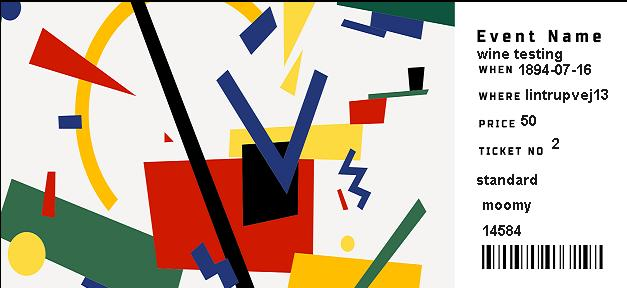
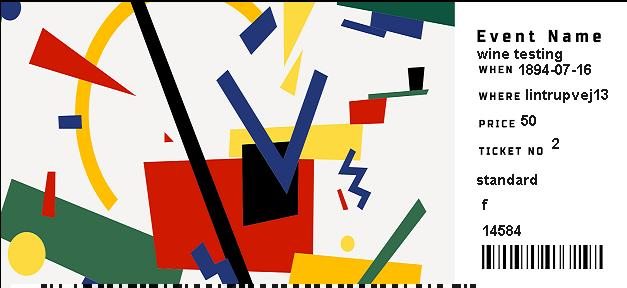
adding realstic barcode

Changed region(s): [[0.0606, 0.9688, 0.7576, 1.0], [0.7576, 0.6875, 0.8485, 0.75]]

diff --git a/src/easv/GUI/View/CSS/Styles.css b/src/easv/GUI/View/CSS/Styles.css
@@ -1,4 +1,4 @@
-
+@import url('https://fonts.googleapis.com/css2?family=League+Gothic&display=swap');
 
 .blue{
     -fx-background-color: #ff5252;
@@ -26,4 +26,10 @@
 }
 .changedBackgroundColor{
     -fx-background-color: #D3DEDC;
+}
+
+.eventnamefont{
+    -fx-font-family: 'League Gothic', sans-serif ;
+    -fx-font-size: 24;
+
 }

diff --git a/src/easv/GUI/Controller/EventInfoController.java b/src/easv/GUI/Controller/EventInfoController.java
@@ -1,5 +1,7 @@
 package easv.GUI.Controller;
 
+
+import com.barcodelib.barcode.Linear;
 import com.jfoenix.controls.JFXButton;
 import easv.BE.Ticket;
 import easv.BE.User;
@@ -31,6 +33,7 @@ import javax.swing.*;
 import java.awt.*;
 import java.awt.geom.Rectangle2D;
 import java.awt.image.BufferedImage;
+import java.awt.image.BufferedImageOp;
 import java.io.File;
 import java.io.IOException;
 import java.net.URL;
@@ -72,7 +75,7 @@ public class EventInfoController implements Initializable {
        eventnameid.setText(cntrl.name);
        infoid.setText(cntrl.notes);
         String s =String.valueOf(cntrl.participants);
-       participantsid.setText(s);
+
        locationid.setText(cntrl.loc);
         locguideid.setText(cntrl.locationGuidance);
         showtickets();
@@ -81,65 +84,87 @@ public class EventInfoController implements Initializable {
     public void showtickets(){
 
         tickets = ticketModel.getticketinevent(cntrl.eventid);
-
+        Image image = new Image("/resourse/user.png");
+       // ImageView view = new ImageView();
         for(Ticket t : tickets){
             String s =String.valueOf(t.getTicketprice());
             Label price = new Label(s);
-            Label barcode = new Label(t.getBarcode());
-            Button btn = new Button();
+            Label btn = new Label();
             btn.setText(t.getType());
+           // view.setImage(image);
             vBox = new VBox();
+
             vBox.getChildren().add(price);
-            vBox.getChildren().add(barcode);
             vBox.getChildren().add(btn);
+           // vBox.getChildren().add(view);
             tilepaneid.getChildren().add(vBox);
             vBox.setOnMousePressed(event -> {
                 String name= JOptionPane.showInputDialog("Enter Name");
-              User user = userModel.adduser(name ,"1234" ,"1234" ,"Customer");
-                ticketModel.createUsTiEv(cntrl.selectedevent, t ,user );
-                try {
-                    String path = "/resourse/tickettemplate.png";
+                if(name != null ) {
+                    User user = userModel.adduser(name, "1234", "1234", "Customer");
+                    ticketModel.createUsTiEv(cntrl.selectedevent, t ,user );
+                    try {
+                        String path = "/resourse/tickettemplate.png";
 
-                    File input = new File("C:\\Users\\samkaxe\\Event_Management\\src\\resourse\\tickettemplate.png");
-                    File output = new File("C:\\Users\\samkaxe\\Event_Management\\src\\resourse\\ticket.jpg");
-                    addTixttoimage(name , cntrl.selectedevent.getName() , cntrl.selectedevent.getStartevent().toString() , cntrl.selectedevent.getLocation() , t.getBarcode(),t.getTicketprice(),t.getId(),t.getType() , "jpg" , input , output);
-                } catch (IOException e) {
-                    e.printStackTrace();
+                        File input = new File("C:\\Users\\samkaxe\\Event_Management\\src\\resourse\\tickettemplate.png");
+                        File output = new File("C:\\Users\\samkaxe\\Event_Management\\src\\resourse\\ticket.jpg");
+
+                        Linear barcodes = new Linear();
+                        barcodes.setType(Linear.CODE128B);
+                        barcodes.setData(t.getBarcode());
+                        barcodes.setI(1);
+
+
+                      BufferedImage  image2 = barcodes.renderBarcode();
+
+                        addTixttoimage(image2 ,name , cntrl.selectedevent.getName() , cntrl.selectedevent.getStartevent().toString() , cntrl.selectedevent.getLocation() , t.getBarcode(),t.getTicketprice(),t.getId(),t.getType() , "jpg" , input , output);
+                    } catch (IOException e) {
+                        e.printStackTrace();
+                    } catch (Exception e) {
+                        e.printStackTrace();
+                    }
                 }
+               else {
+                    System.out.println("nothing selected ");
+                }
+
             });
         }
     }
 
-    private static void addTixttoimage(String text, String name , String when , String where , String barcode , int price , int ticketid,String tickettype ,String type, File source, File destination) throws IOException {
+
+
+    private static void addTixttoimage(BufferedImage image2,String text, String name , String when , String where , String barcode , int price , int ticketid,String tickettype ,String type, File source, File destination) throws IOException {
+
         BufferedImage image = ImageIO.read(source);
         int imagetype = "png".equalsIgnoreCase(type) ? BufferedImage.TYPE_INT_ARGB : BufferedImage.TYPE_INT_RGB;
 
-        BufferedImage bold = new BufferedImage(image.getWidth() , image.getHeight() , imagetype);
+        BufferedImage bold = new BufferedImage(image.getWidth(), image.getHeight(), imagetype);
 
         Graphics2D w = (Graphics2D) bold.getGraphics();
 
-        w.drawImage(image , 1 , 2 ,null);
-        AlphaComposite alpha = AlphaComposite.getInstance(AlphaComposite.SRC_OVER , 0.9f );
+        w.drawImage(image, 1, 2, null);
+        AlphaComposite alpha = AlphaComposite.getInstance(AlphaComposite.SRC_OVER, 0.9f);
         w.setComposite(alpha);
         w.setColor(Color.BLACK);
-        w.setFont(new Font(Font.SANS_SERIF , Font.BOLD , 15));
+        w.setFont(new Font(Font.SANS_SERIF, Font.BOLD, 15));
 
         FontMetrics fontMetrics = w.getFontMetrics();
-        Rectangle2D rect = fontMetrics.getStringBounds(text , w );
-        int centerX = (image.getWidth() - (int) rect.getWidth())/2 ;
-        int centerY = image.getHeight()/2 ;
+        Rectangle2D rect = fontMetrics.getStringBounds(text, w);
+        int centerX = (image.getWidth() - (int) rect.getWidth()) / 2;
+        int centerY = image.getHeight() / 2;
 
 
-        w.drawString(name , 477  , 59);
-        w.drawString(where , 525  , 100);
-        w.drawString(when , 518  , 75);
-        w.drawString(String.valueOf(price), 521  , 126);
-        w.drawString(barcode , 482  , 236);
-        w.drawString(tickettype , 476  , 185);
-        w.drawString(String.valueOf(ticketid), 552  , 149);
-        w.drawString(text , 482  , 210);
-
-        ImageIO.write(bold ,type , destination);
+        w.drawString(name, 477, 59);
+        w.drawString(where, 525, 100);
+        w.drawString(when, 518, 75);
+        w.drawString(String.valueOf(price), 521, 126);
+        w.drawString(barcode, 482, 236);
+        w.drawString(tickettype, 476, 185);
+        w.drawString(String.valueOf(ticketid), 552, 149);
+        w.drawString(text, 482, 210);
+        w.drawImage(image2, null, 11, 284);
+        ImageIO.write(bold, type, destination);
         w.dispose();
     }
 

diff --git a/src/easv/testedmain.java b/src/easv/testedmain.java
@@ -1,19 +1,36 @@
 package easv;
 
 
+
+
+import com.barcodelib.barcode.Linear;
+
 import javax.imageio.ImageIO;
 import java.awt.*;
 import java.awt.geom.Rectangle2D;
 import java.awt.image.BufferedImage;
 import java.io.File;
 import java.io.IOException;
-import java.sql.Timestamp;
-import java.text.DateFormat;
-import java.text.SimpleDateFormat;
-import java.util.Calendar;
+import java.util.Random;
+
 
 public class testedmain {
     public static void main(String[] args) throws Exception {
+
+        Random random = new Random();
+        StringBuilder sb = new StringBuilder();
+
+        // first not 0 digit
+        sb.append(random.nextInt(9) + 1);
+
+        // rest of 11 digits
+        for (int i = 0; i < 11; i++) {
+            sb.append(random.nextInt(10));
+        }
+        System.out.println(sb);
+
+        String sbd = String.valueOf(sb);
+        System.out.println(sbd);
 /*
         Calendar cal = Calendar.getInstance();
         java.sql.Timestamp timestamp = new Timestamp(cal.getTimeInMillis());
@@ -32,12 +49,12 @@ public class testedmain {
 
  */
 
-        String path = "/resourse/tickettemplate.png";
+     //   String path = "/resourse/tickettemplate.png";
 
-         File input = new File("C:\\Users\\samkaxe\\Event_Management\\src\\resourse\\tickettemplate.png");
-         File output = new File("C:\\Users\\samkaxe\\Event_Management\\src\\resourse\\images3.jpg");
+      //   File input = new File("C:\\Users\\samkaxe\\Event_Management\\src\\resourse\\tickettemplate.png");
+        // File output = new File("C:\\Users\\samkaxe\\Event_Management\\src\\resourse\\images3.jpg");
 
-        addTixttoimage("" , "teaparty" , "2022-12-15" , "koldingvej13" , "156264",50,1  , "jpg" , input , output);
+    //    addTixttoimage("" , "teaparty" , "2022-12-15" , "koldingvej13" , "156264",50,1  , "jpg" , input , output);
     }
 
     private static void addTixttoimage(String text, String name , String when , String where , String barcode , int price , int ticketid , String type, File source, File destination) throws IOException {

diff --git a/src/easv/GUI/Controller/create/CreateTicketController.java b/src/easv/GUI/Controller/create/CreateTicketController.java
@@ -22,6 +22,7 @@ import javafx.util.Duration;
 
 import java.io.IOException;
 import java.net.URL;
+import java.util.Random;
 import java.util.ResourceBundle;
 
 public class CreateTicketController implements Initializable {
@@ -76,11 +77,18 @@ public class CreateTicketController implements Initializable {
     }
 
     public void createTicekt(){
-        //Event event, int id, String type, int ticketprice, String barcode, Date expirationdan, String info'
+        Random random = new Random();
+        StringBuilder sb = new StringBuilder();
+        sb.append(random.nextInt(9) + 1);
+        for (int i = 0; i < 11; i++) {
+            sb.append(random.nextInt(10));
+        }
+
+        String sbd = String.valueOf(sb);
         String type = tickettypeid.getText();
         int price = Integer.parseInt(ticketpriceid.getText());
         String info = infoid.getText();
-        ticketModel.createTicket(cntrl.selectedevent ,cntrl.selectedeventid , type , price ,"151" , cntrl.selectedevent.getEndevent() , info  );
+        ticketModel.createTicket(cntrl.selectedevent ,cntrl.selectedeventid , type , price ,sbd , cntrl.selectedevent.getEndevent() , info  );
     }
 
 
